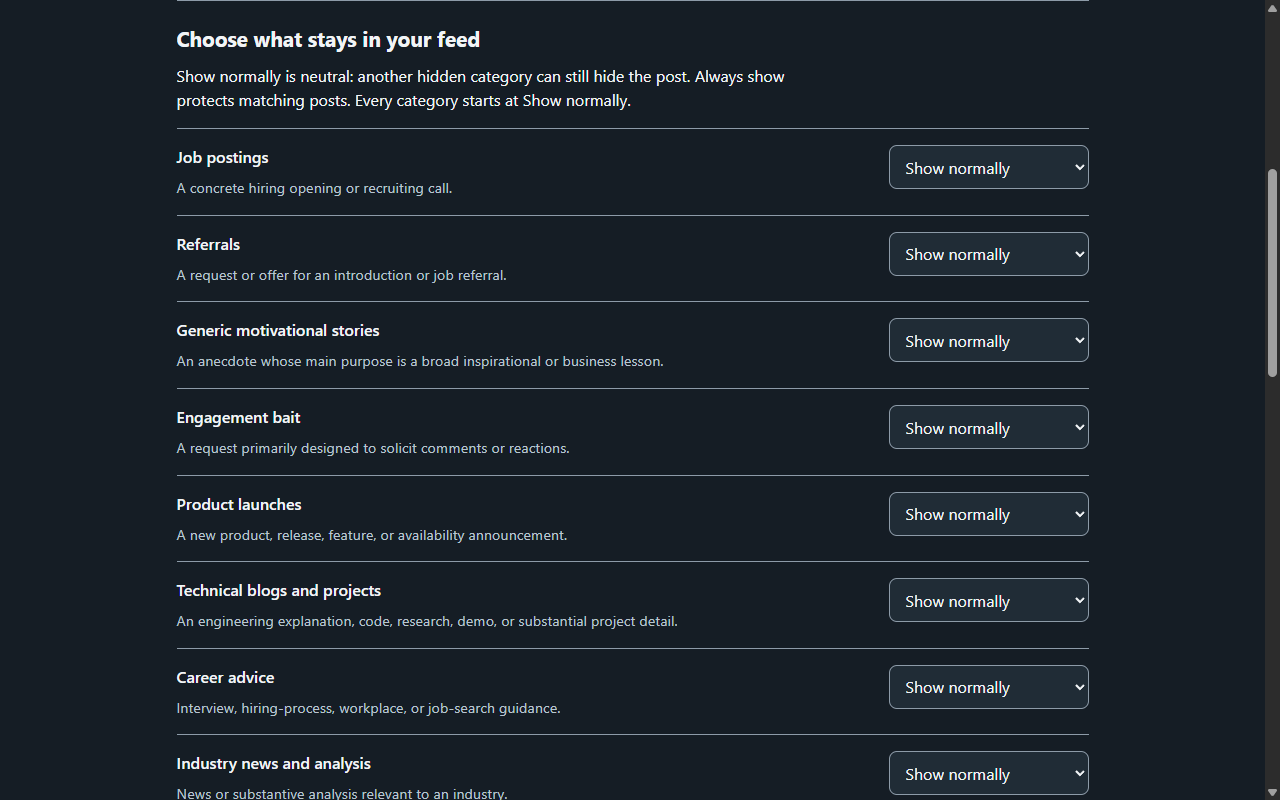
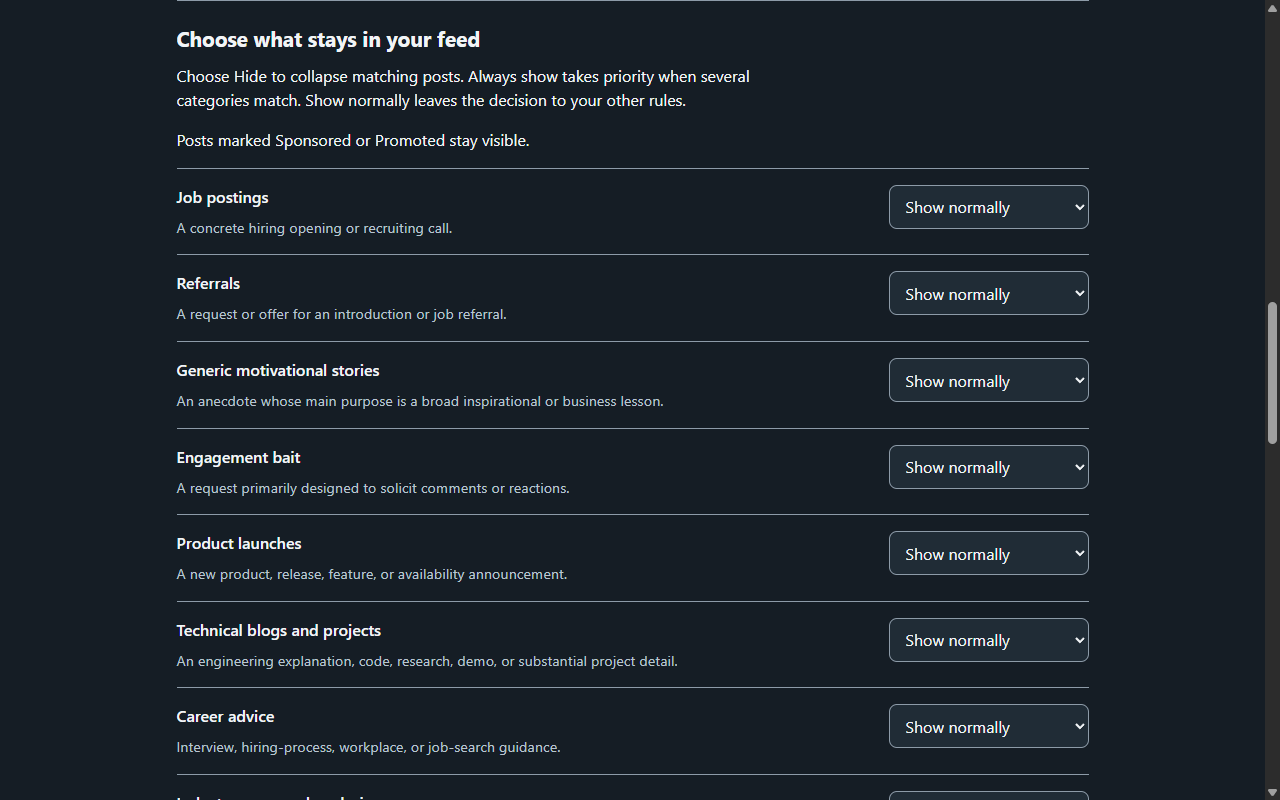
Update store disclosures and reviewer evidence for the opt-in build

diff --git a/docs/release/store-review.md b/docs/release/store-review.md
@@ -1,6 +1,6 @@
 # Store reviewer notes for the desktop development preview
 
-**Package purpose.** ClearedIn Development lets users configure category rules in browser-local settings and try them in a synthetic setup demo. Live feed filtering and provider connections are unavailable in version 0.1.0. The reviewer walkthrough works in a fresh profile without accounts, sample posts or API keys.
+ClearedIn Development lets the installing user filter organic posts on the desktop LinkedIn home feed. In extension settings, select a provider, grant the browser permission, save a session key, test with a synthetic post, select category rules, then consent and enable. The separate setup simulation works without an account or key. The product run on a synthetic feed exercises the real package with an offline provider. [Chrome walkthrough](../../experiments/browser-feasibility/evidence/chrome-feed-onboarding.md)
 
 ## Rebuild the submitted ZIPs
 
@@ -22,10 +22,11 @@ Compare the SHA-256 of each resulting `apps/extension/.output/clearedinextension
 | Field | Evidence for this preview |
 | --- | --- |
 | Store packages | Use the browser-specific ZIP identified in the inventory. AMO also needs `repository-source.zip` and the build instructions above. Select desktop platforms when evaluating this build. |
-| Short description | Save category rules locally and explore a synthetic setup demo. Live filtering is unavailable in this development preview. |
-| Storage permission | Retains preferences such as category choices and usage limits within the browser profile. In settings, confirm Clear all data and reopen to see the defaults. |
-| LinkedIn match | The manifest registers an empty application content-script entry point at `https://www.linkedin.com/feed/*`. WXT wraps it with lifecycle code. The preview does not extract posts or modify the feed. Decide whether this match belongs in the final product before justifying any site access to reviewers. |
-| Remote code and data | Extension scripts ship in the package. The extension-page CSP limits scripts and objects to self. The preview requests no provider hosts, accepts no real credentials and transmits no posts. Firefox declares `data_collection_permissions.required: ["none"]`. The public website is a separate surface. |
+| Short description | Choose which organic LinkedIn home-feed posts to collapse, using your own provider key and category rules. |
+| Storage permission | Stores preferences, consent and request counts locally. The selected provider key is held in privileged browser-session storage. Disconnect forgets the key. Clear all data resets local state. |
+| LinkedIn match | Only the top-frame desktop home feed at `www.linkedin.com/feed` or `/feed/`, including query variants, matches. Activated filters classify selected rendered post text. Recognized sponsored posts are excluded. Users can reveal collapsed posts or pause filtering. |
+| Optional host permissions | The user grants access to their selected API origin for TypeSafe Jev, OpenAI or Anthropic. A fixed synthetic request tests that connection. Remote classification can incur charges on the user's account. |
+| Remote code and data | Code ships inside the ZIP. The CSP restricts API connections to the three provider origins and blocks remote scripts, objects and form submissions. Firefox declares optional `authenticationInfo` and `websiteContent` with no required data collection. Processing feed text requires an additional in-extension consent and enable action. The website has separate data practices. |
 | Contact and policy | The project lists support@sush.dev and publishes its [support page](https://clearedin.sush.dev/support/) and [privacy page](https://clearedin.sush.dev/privacy/). Verify these against the authorized release and publisher disclosures. |
 | Artwork | Use the [128 px icon](../../apps/extension/public/icon/128.png) and [1280 × 800 options screenshot](assets/options-1280x800.png). Suggested caption — “Category preferences saved locally in the development preview.” The image shows default rules in a disposable profile. |
 
@@ -35,12 +36,12 @@ The publisher selects the public identity, license, final listing, distribution 
 
 `pnpm release:amo` runs Mozilla's **addons-linter 10.16.0** locally against the inventoried Firefox ZIP after checking its digest. It writes the complete JSON result, validator version and package hash to `.release/amo-validation.json`. The validator and its dependencies have a separate frozen lockfile and install with lifecycle scripts disabled. The measured Windows install resolved 185 packages for validation. An ordinary developer or reviewer build installs none of these additional packages. [Mozilla validator](https://github.com/mozilla/addons-linter)
 
-The Windows run recorded **0 errors, 0 notices and 5 warnings**. CI fails on validator errors or warning codes, bundle names or counts outside the reviewed set. Review source locations again for each candidate, even when counts match.
+The Windows validation of the home-feed build recorded **0 errors, 0 notices and 6 warnings**. CI fails on errors or warnings outside the reviewed files, codes and counts. Review the source locations for each candidate.
 
 | Count | Finding | Review disposition |
 | --- | --- | --- |
 | 1 | Android minimum version | Desktop Firefox 140 supports the declared data-consent key. Android support starts at 142. Desktop is the tested target. Android needs its own minimum version decision and device testing before selection. [Mozilla compatibility](https://extensionworkshop.com/documentation/develop/firefox-builtin-data-consent/) |
-| 2 | `DANGEROUS_EVAL` in background and shared UI | Both point to Zod's empty-string `Function` capability probe. The [extension build entry](../../apps/extension/build/zod-csp.ts) configures Zod's interpreted parser before the application constructs its schemas. Zod skips the probe when `jitless` is set. Static scanning still sees the library branch. |
+| 3 | `DANGEROUS_EVAL` in the background, feed content script and shared UI | All three point to Zod's empty-string `Function` capability probe. The [extension build entry](../../apps/extension/build/zod-csp.ts) configures the interpreted parser before schema construction. Zod skips the probe when `jitless` is set. Static scanning still sees the library branch. |
 | 2 | `UNSAFE_VAR_ASSIGNMENT` in shared UI | Both point to React DOM's implementation of `dangerouslySetInnerHTML`. The extension and shared UI do not supply that prop. Check again when changing React or the rendering paths. |
 
 AMO performs its own validation and review after an authorized upload.
